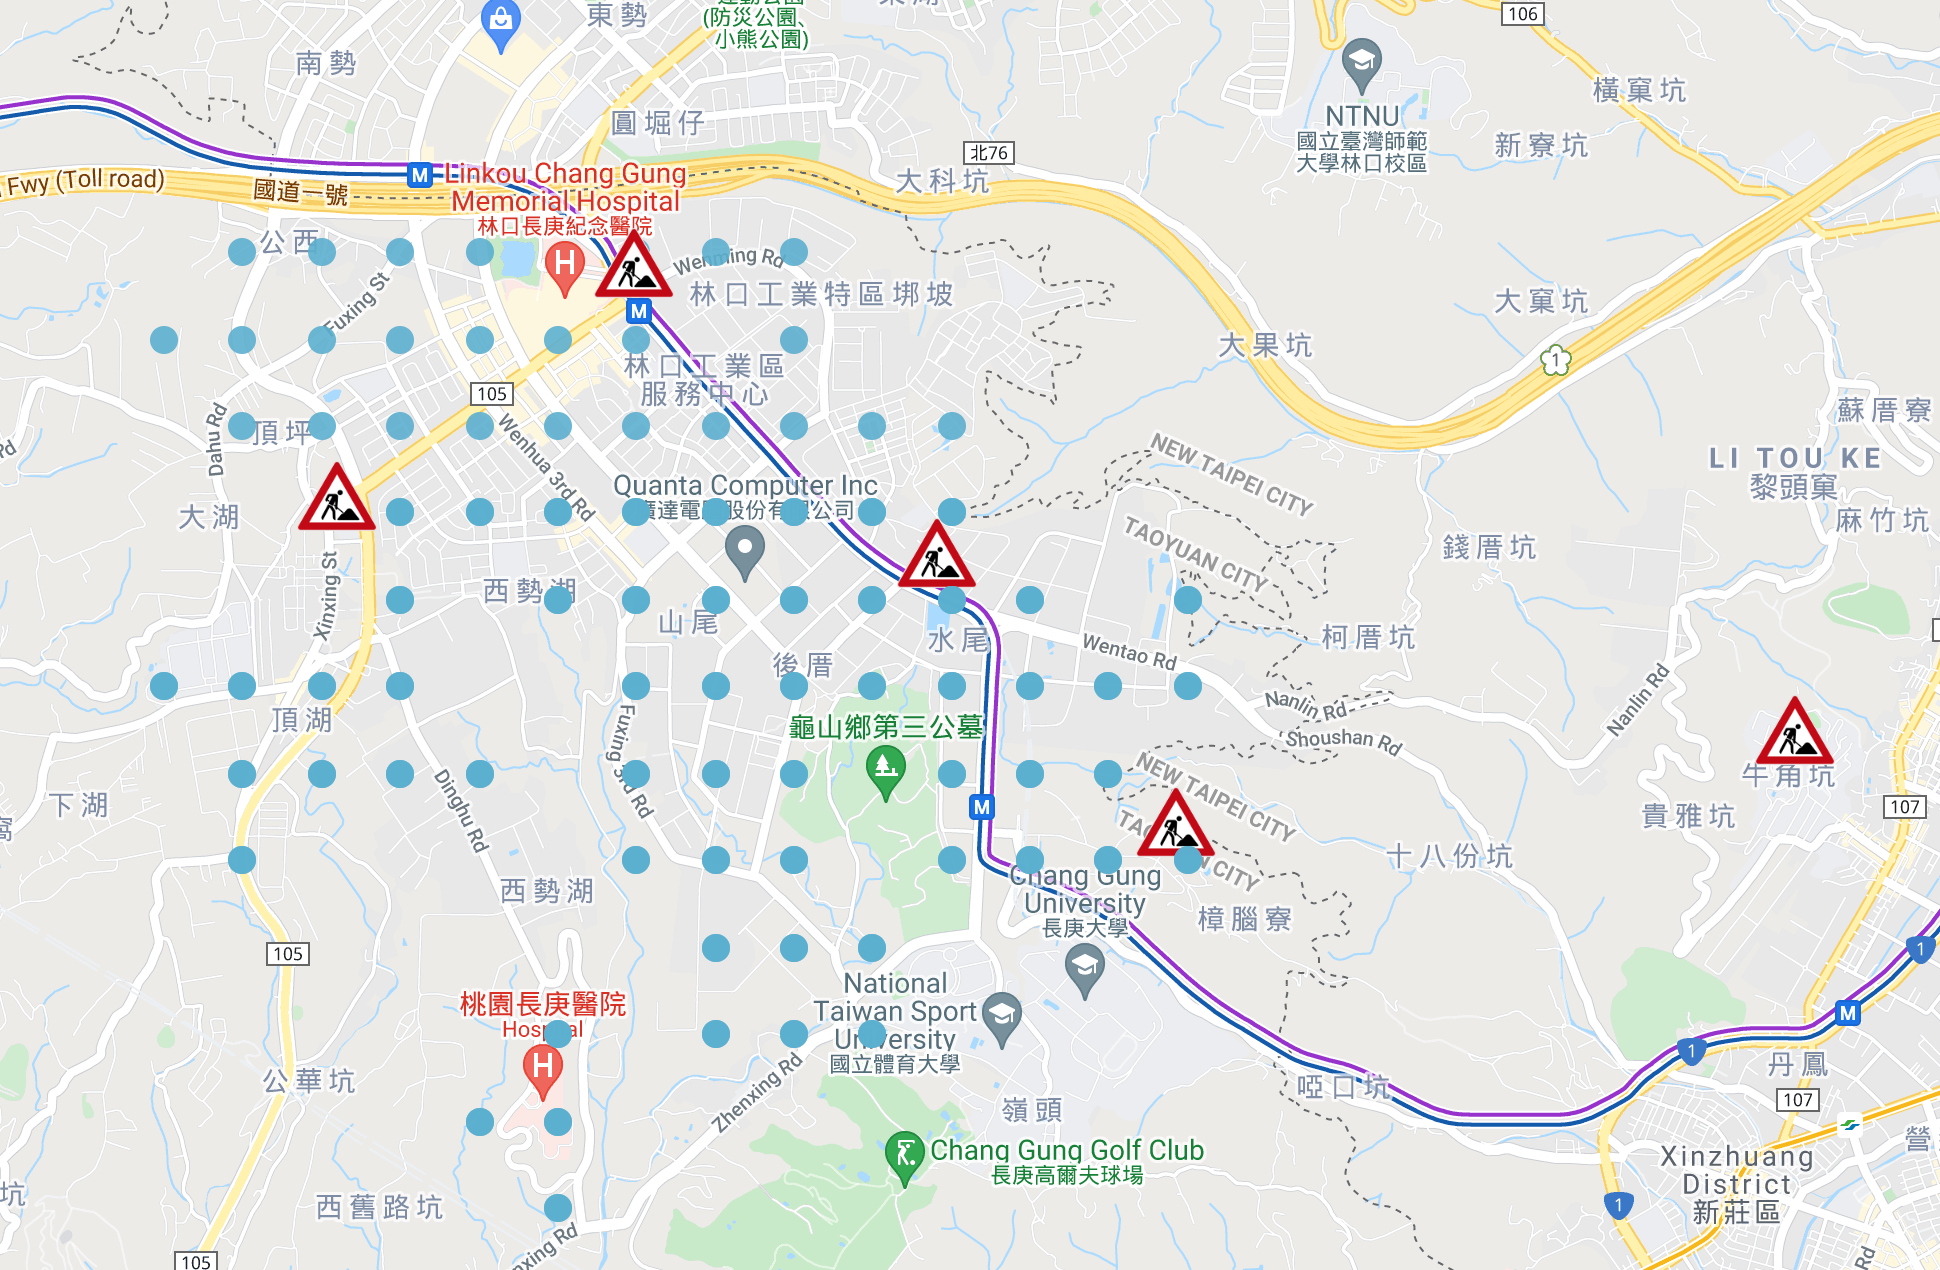
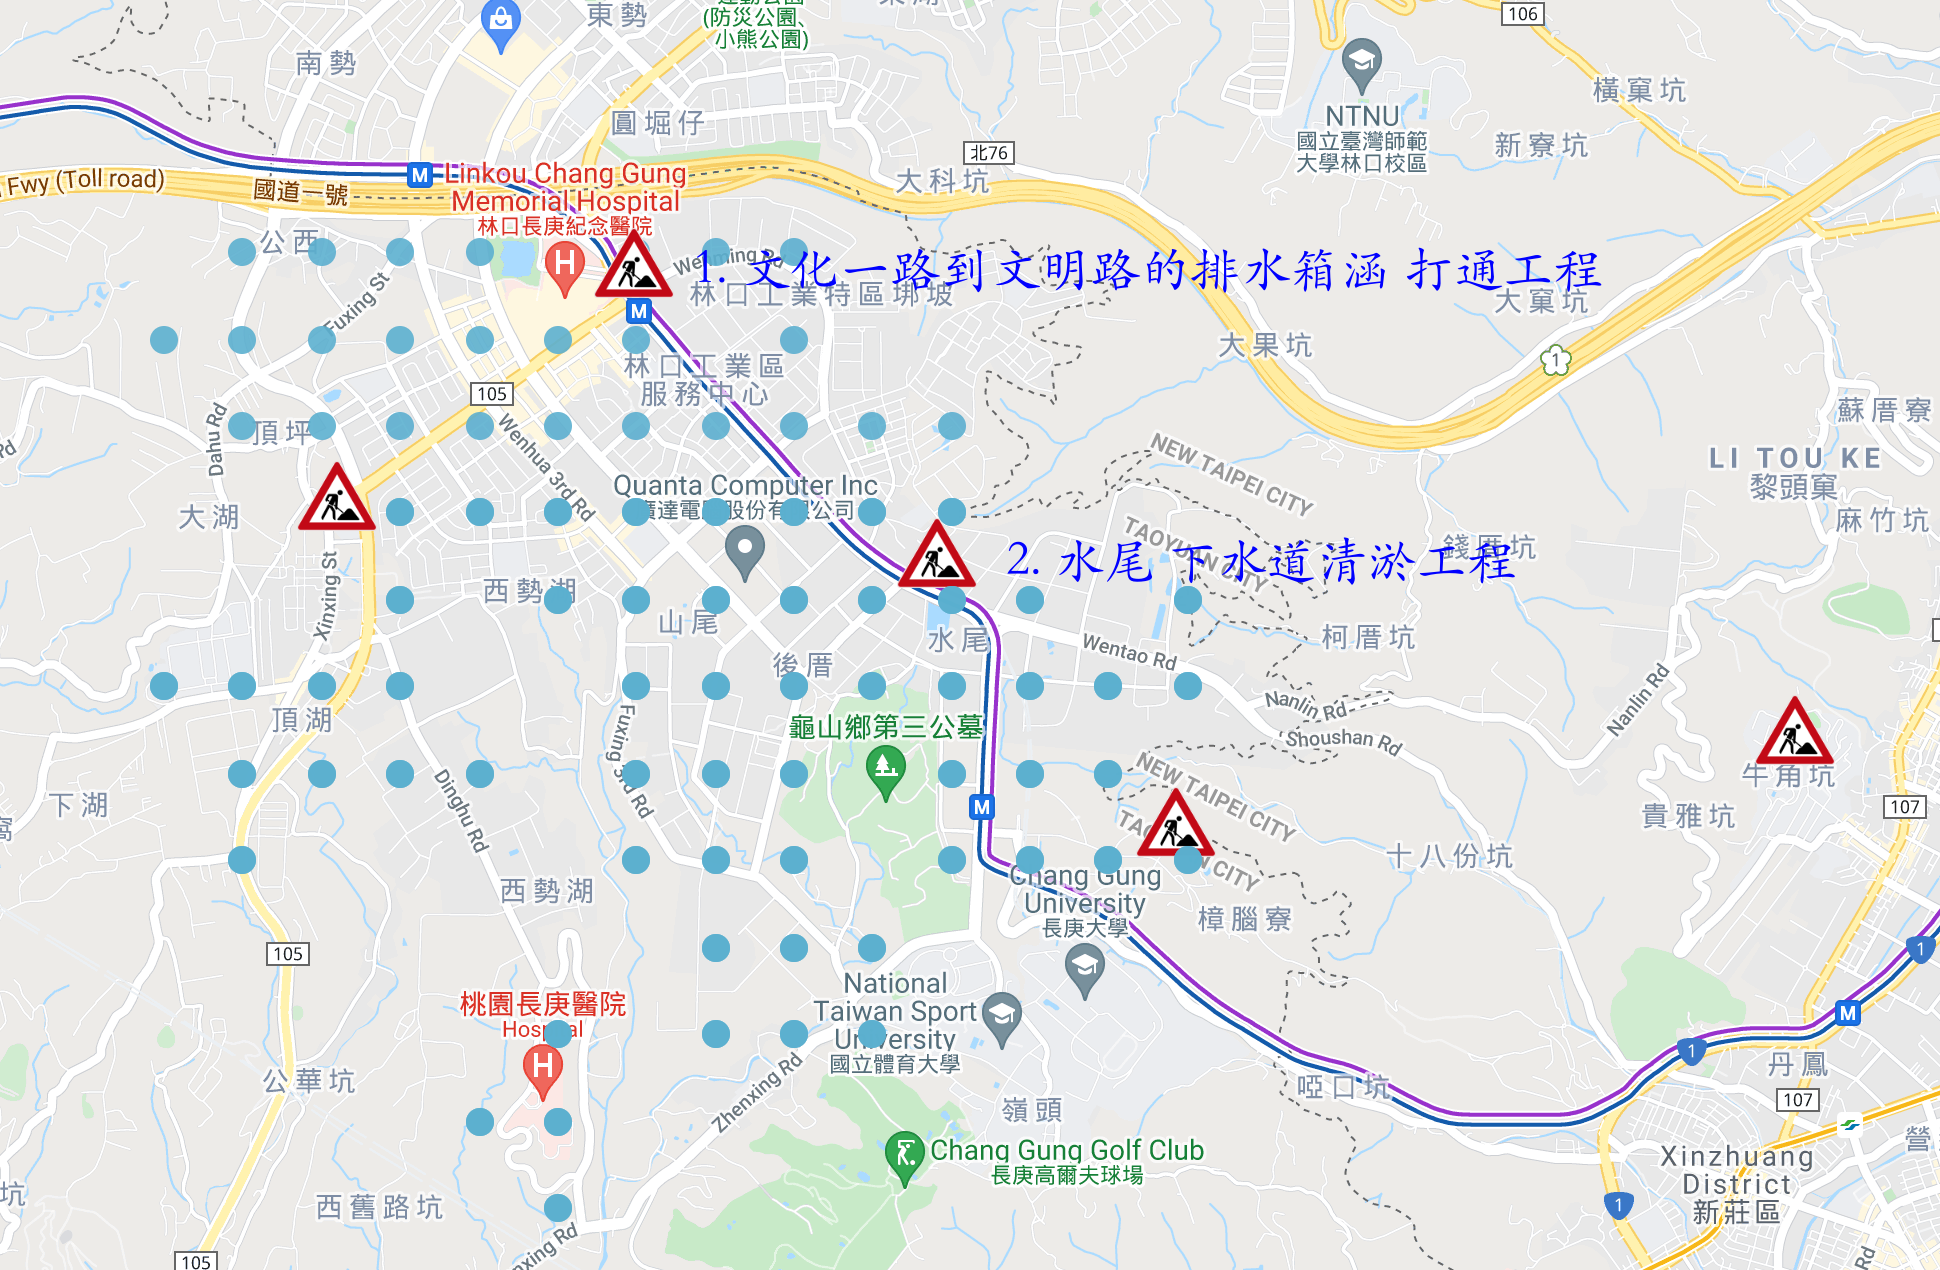
update

diff --git a/A7XLK-24-FloodPrevention.html b/A7XLK-24-FloodPrevention.html
@@ -590,7 +590,8 @@
 						<div class="col-md-6">
 							<h5>水務局的規劃</h5>
 							<ul>
-								<li>短期規劃：市府將優先打通文化一路到文明路的排水箱涵。
+								<li>短期規劃：<br>
+									1. 市府將優先打通文化一路到文明路的排水箱涵。
 									<ul>
 										<li>已經施工：估計在2021/8月底完工</li>
 										<li>
@@ -600,7 +601,12 @@
 										契約名稱：契約(107)桃水雨工字第11號
 										</li>
 									</ul>
-								
+									2. 水尾 下水道清淤工程									
+									<ul>
+										<li>標案名稱: 110年桃園市雨水下水道清淤暨巡檢工程(開口契約)(北區) </li>
+										<li>標案編號： 1100120-J2</li>
+
+									</ul>
 								</li>
 								<li>
 									中長期規劃：
